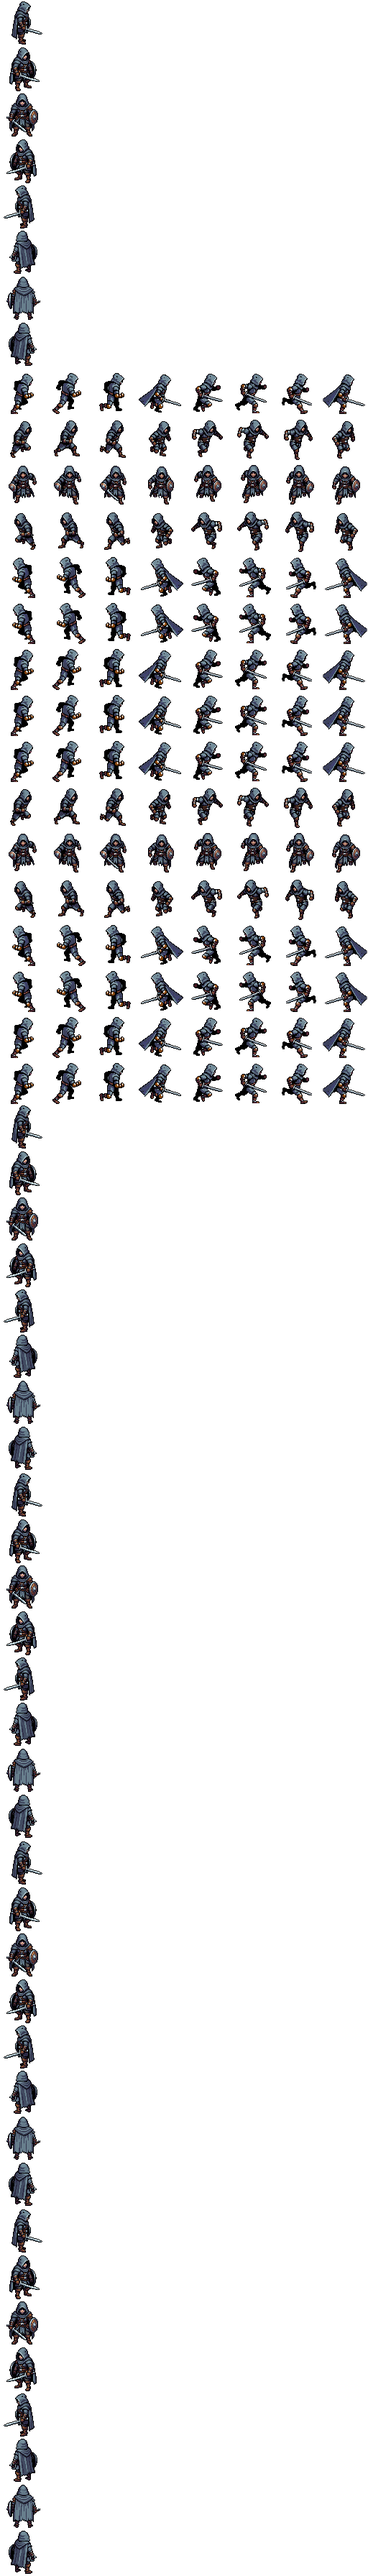
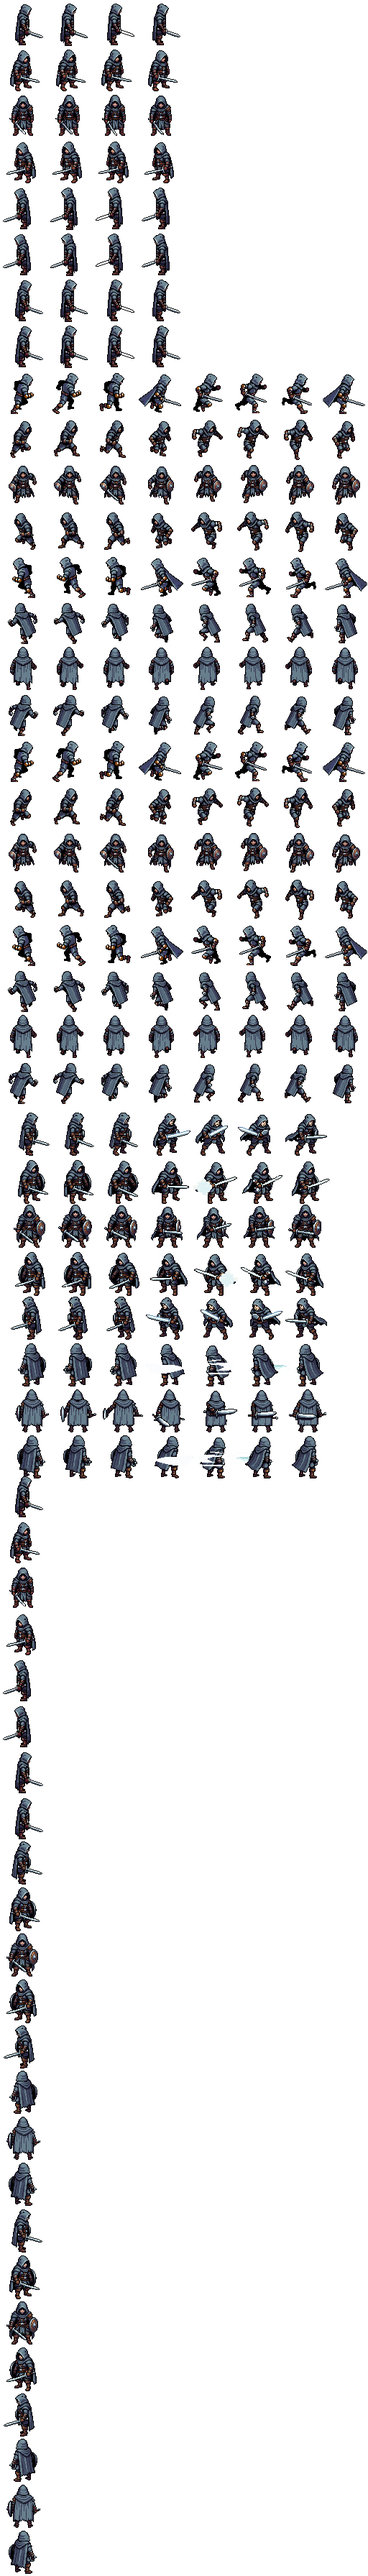
PixelLab hero for the Bruiser, PixelLab importer; effects opt out of frame interpolation; Voice volume in menus

diff --git a/tools/art/import_pixellab.py b/tools/art/import_pixellab.py
@@ -25,22 +25,22 @@ from import_lpc import PROJECT, write_sheet_def  # noqa: E402
 DIRS = {"e": ("east", False), "se": ("south-east", False), "s": ("south", False), "sw": ("south-east", True),
         "w": ("east", True), "nw": ("north-east", True), "n": ("north", False), "ne": ("north-east", False)}
 ORDER = ["south", "south-east", "east", "north-east", "north"]
-# our animation -> (source animation, fps, loop, frames to keep or None)
+# our animation -> (source animations in order of preference, fps, loop, frames to keep or None)
 ANIMS = [
-    ("idle", "idle", 6, True, None),
-    ("walk", "run", 12, True, None),
-    ("run", "run", 14, True, None),
-    ("attack", "slash", 16, False, None),
-    ("block", "idle", 1, True, 1),
-    ("hurt", "hurt", 10, False, None),
-    ("dead", "death", 9, False, None),
+    ("idle", ("idle3", "idle"), 5, True, None),
+    ("walk", ("run3", "run"), 12, True, None),
+    ("run", ("run3", "run"), 14, True, None),
+    ("attack", ("slash",), 16, False, None),
+    ("block", ("idle3", "idle"), 1, True, 1),
+    ("hurt", ("hurt",), 10, False, None),
+    ("dead", ("death",), 9, False, None),
 ]
 
 
-def frames(src, anim, direction):
-    """Frames for an animation and direction; falls back to the nearest direction, then the rotation."""
+def frames(src, anims, direction):
+    """Frames for the first animation that exists; falls back to the nearest direction, then the rotation."""
     want = ORDER.index(direction)
-    for near in sorted(ORDER, key=lambda d: abs(ORDER.index(d) - want)):
+    for anim, near in [(a, d) for a in anims for d in sorted(ORDER, key=lambda d: abs(ORDER.index(d) - want))]:
         folder = os.path.join(src, anim, near)
         if os.path.isdir(folder):
             files = sorted((f for f in os.listdir(folder) if f.endswith(".png")), key=lambda f: int(os.path.splitext(f)[0]))

diff --git a/README.md b/README.md
@@ -42,3 +42,17 @@ Compatibility (`gl_compatibility`) for broad desktop support. Viewport 480x270, 
   - `godot --headless --path . --script res://tools/dev/probe_enemies.gd` (every enemy attacks)
   - `... probe_flow.gd` (combo, ability, reading), `probe_rest.gd`, `probe_classes.gd`,
     `probe_echoes.gd`, `probe_save.gd`
+
+## Audio and hero art pass (2026-11-12)
+- **All effects replaced** with real CC0 recordings (Kenney Impact / RPG / UI, OpenGameArt
+  voice and creature packs; full list in ASSETS.md). Each action is a set of 3 to 6
+  takes played through an `AudioStreamRandomizer`, on five buses: Music, Ambient, SFX,
+  Voice, UI (all adjustable in Settings and the pause menu).
+- **Voices:** the hero grunts on the big swings (and sometimes the small ones), gasps
+  when hit; Hollowed groan before they strike and the boss roars.
+- **Timing:** swings, grunts and impacts fire on the active frame of the attack, never on
+  the button press. Big hits duck the music for a moment.
+- **Hero:** the Bruiser uses a new 8-direction hand-animated sheet (PixelLab, built with
+  `tools/art/import_pixellab.py`). Arcanist and Prowler still use the layered LPC looks.
+- **Fixed:** effects streaked in from the map corner on their first frame after frame
+  interpolation was turned on; one-shot effects now opt out of interpolation.
